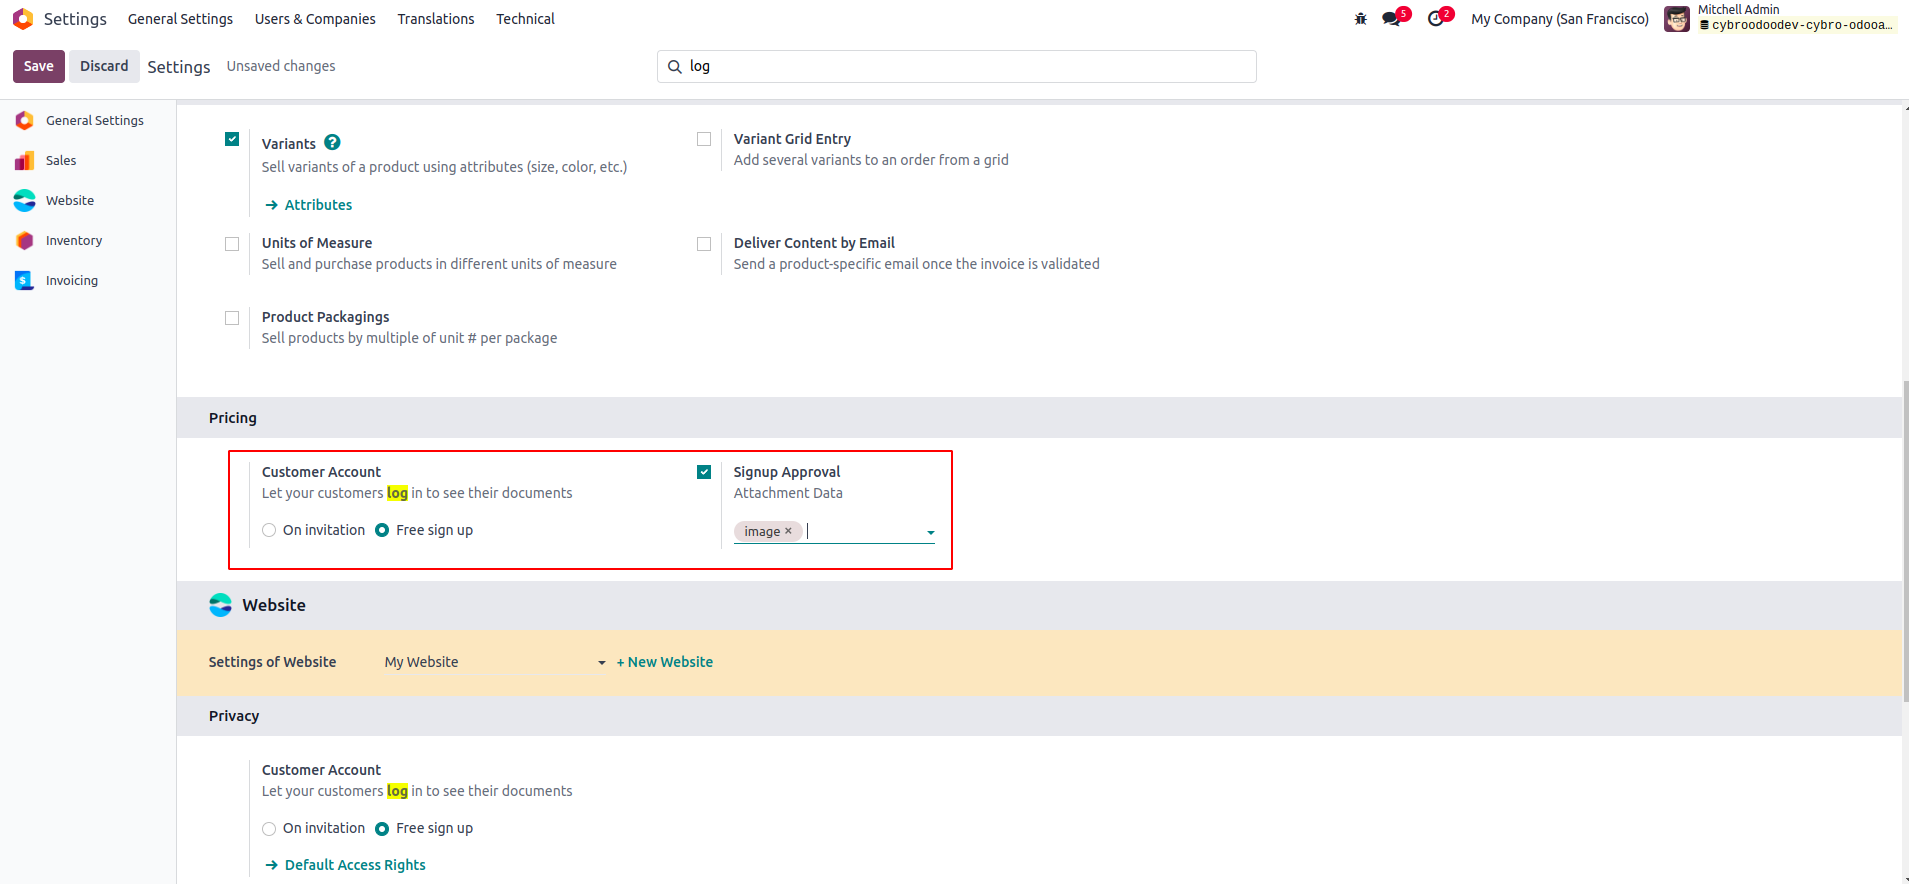
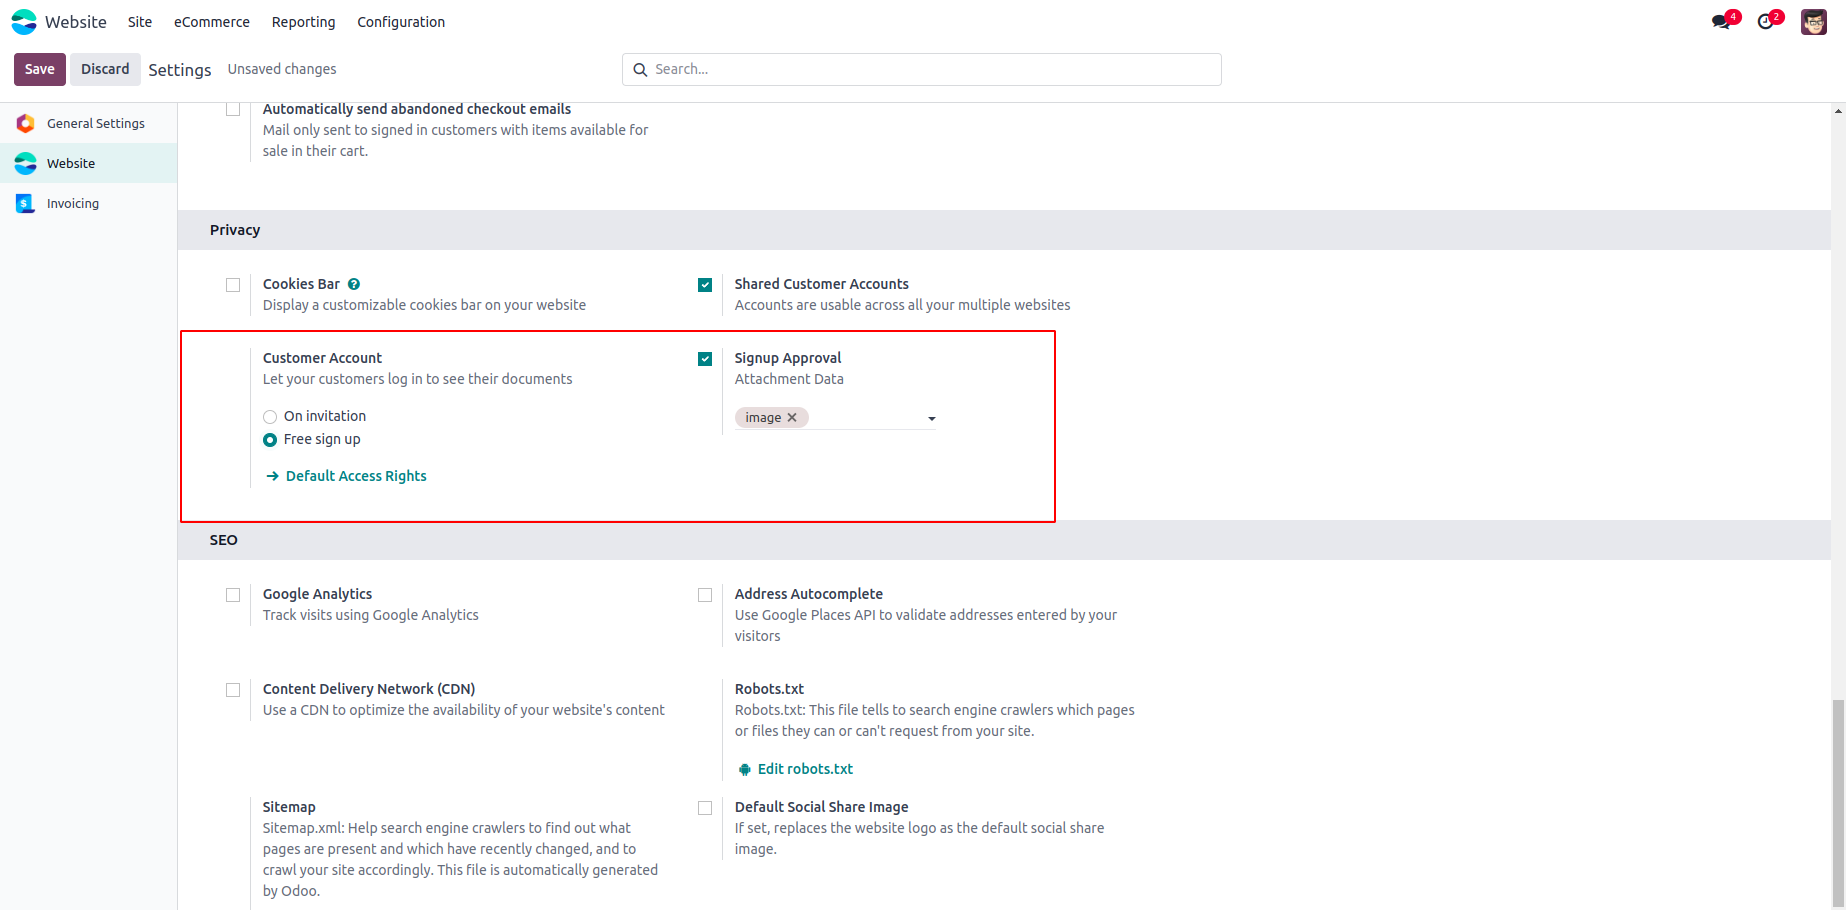
July 22: [FIX] Bug Fixed 'website_signup_approval'

diff --git a/website_signup_approval/static/description/index.html b/website_signup_approval/static/description/index.html
@@ -148,7 +148,7 @@
                                         Signup Approval process in Website</h4>
                                     <h6 class="mt-2"
                                         style=" font-weight:300 !important; color:#282F33 !important; font-size:0.7rem !important">
-                                        Go to Sales Configuration Settings, Choose Customer Account as Free sign up, Enable Signup Approval and add attachment types.</h6>
+                                        Go to Website Settings, Choose Customer Account as Free sign up, Enable Signup Approval and add attachment types.</h6>
                                 </div>
                             </div>
                         </div>

diff --git a/website_signup_approval/__manifest__.py b/website_signup_approval/__manifest__.py
@@ -21,7 +21,7 @@
 #############################################################################
 {
     'name': "Website Signup Approval",
-    'version': '17.0.1.0.1',
+    'version': '17.0.1.0.2',
     'summary': 'Approve signup request to login to the website',
     'description': """This module approve or reject signup approval request of 
      users from website.User can upload their documents for approval.""",
@@ -30,7 +30,7 @@
     'maintainer': 'Cybrosys Techno Solutions',
     'website': 'https://www.cybrosys.com',
     'category': 'Website',
-    'depends': ['website', 'sale_management'],
+    'depends': ['website_sale'],
     'data': [
         'security/website_signup_approval_groups.xml',
         'security/ir.model.access.csv',

diff --git a/website_signup_approval/doc/RELEASE_NOTES.md b/website_signup_approval/doc/RELEASE_NOTES.md
@@ -9,3 +9,8 @@
 #### Version 17.0.1.0.1
 #### UPDT
 - Updated CSV file
+
+#### 19.07.2024
+#### Version 17.0.1.0.2
+#### UPDT
+- Changed the Configuration from Sale Configuration to Website Configuration. 
